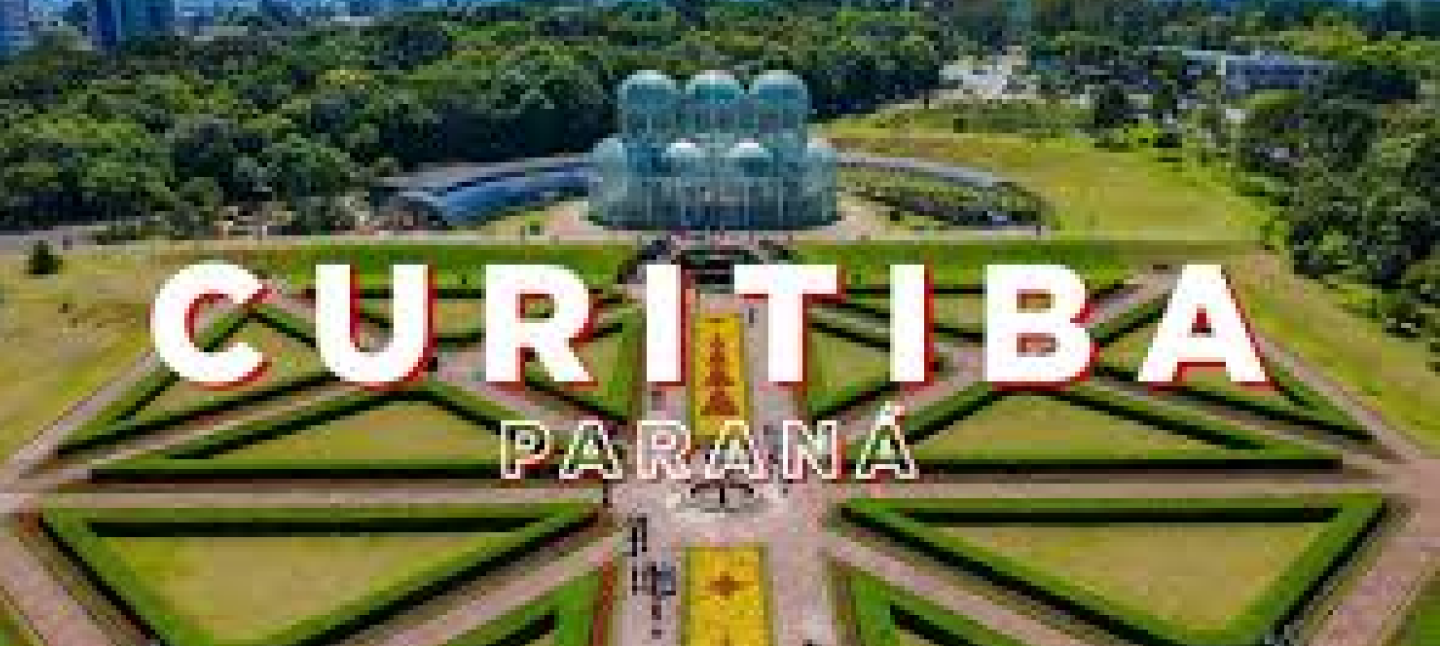
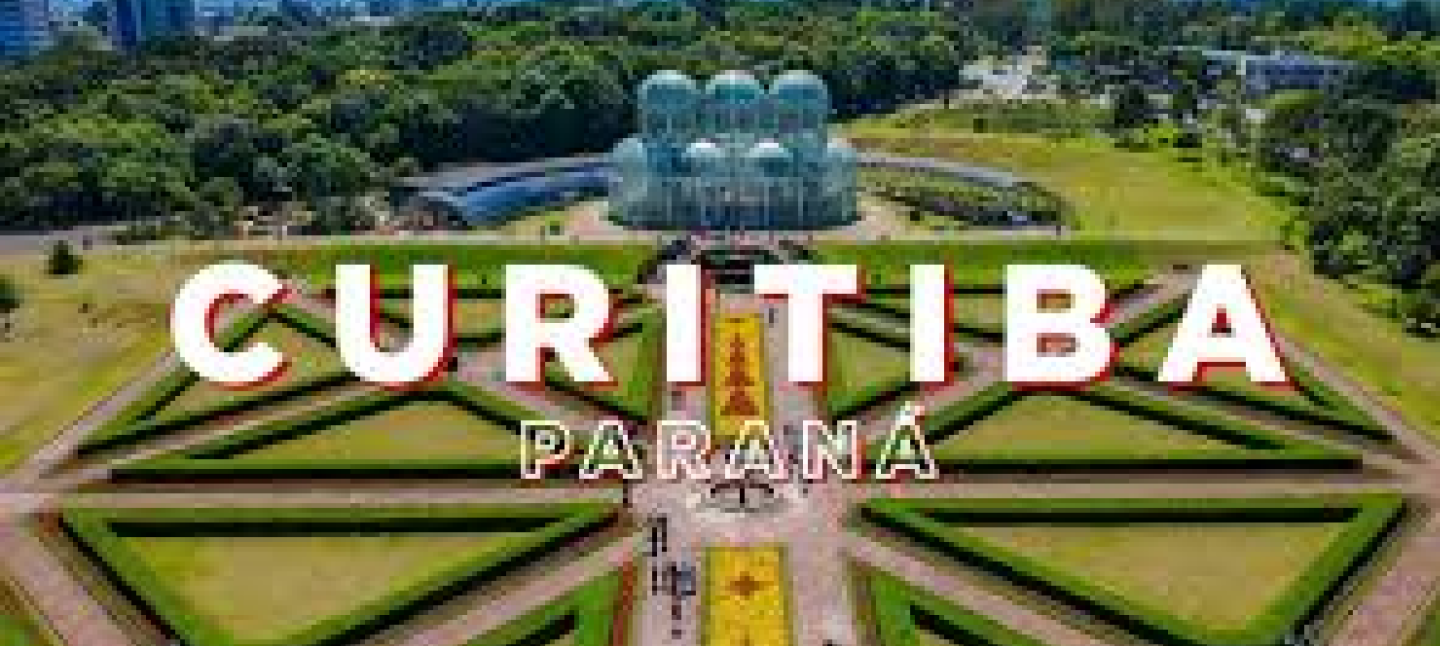
começo

diff --git a/index.html b/index.html
@@ -1,0 +1,23 @@
+<!DOCTYPE html>
+<html lang="pt-br">
+<head>
+    <meta charset="UTF-8">
+    <meta http-equiv="X-UA-Compatible" content="IE=edge">
+    <meta name="viewport" content="width=device-width, initial-scale=1.0">
+    <title>Alura</title>
+    <link rel="stylesheet" href="./estilo.css">
+    <link rel="preconnect" href="https://fonts.googleapis.com">
+<link rel="preconnect" href="https://fonts.gstatic.com" crossorigin>
+<link href="https://fonts.googleapis.com/css2?family=Merriweather:wght@400;700&display=swap" rel="stylesheet">
+</head>
+<body>
+   <section class="principal">
+    <div>
+    <img class="principal-imagem" src="./img/curitiba-185-c.jpg" alt="">
+    <h1>
+        O ponto turístico mais visitado de Curitiba . Passa ano e entra ano, o Jardim Botânico não perde seu charme e nem a fidelidade dos curitibanos, que lotam o local todo fim de semana.</h1>
+    <img class="grupo-1" src="./img/Group 1.png" alt="">
+    </div>
+   </section> 
+</body>
+</html>

diff --git a/estilo.css b/estilo.css
@@ -1,0 +1,25 @@
+:root{
+--branco-principal: #ffffff;
+--cinza-secundario: #c0c0c0;
+--botao-azul: #167bf7;
+--fonte-principal: 'Inter'; 
+}
+body{
+    background-color: rgb(113, 113, 214);
+    color: var(--branco-principal);
+    font-family: var(--fonte-principal);
+    font-size: 16px;
+    font-weight: 400;
+}
+*{
+   margin: 0;
+   padding: 0; 
+}
+
+.principal-imagem{
+    width: 100%;
+    
+}
+.principal-grupo-1{
+    
+}
